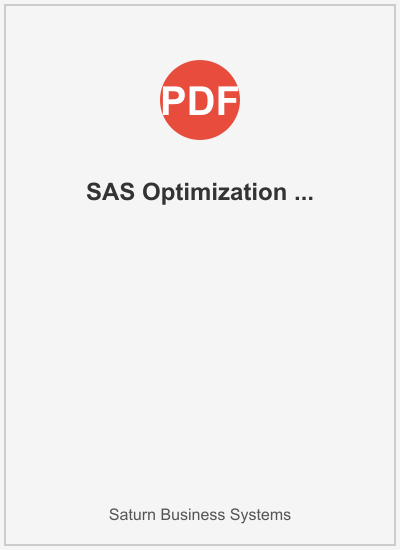
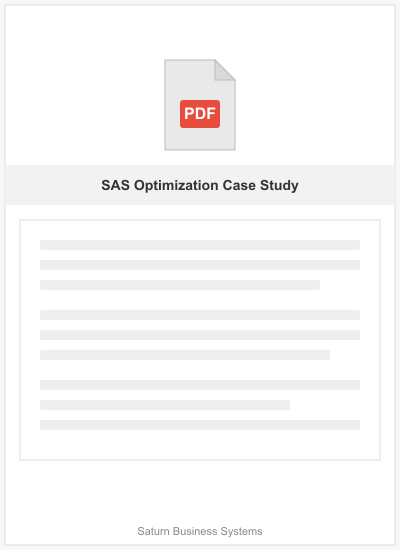
Enhance PDF thumbnails with realistic document preview design

Changed region(s): [[0.0, 0.0, 0.99, 1.0], [0.39, 0.0927, 0.6, 0.2782], [0.21, 0.3091, 0.78, 0.3709]]

diff --git a/scripts/generate-pdf-thumbnails.js b/scripts/generate-pdf-thumbnails.js
@@ -1,8 +1,11 @@
 const fs = require('fs');
 const path = require('path');
 const sharp = require('sharp');
+const { execSync } = require('child_process');
+const { PDFDocument } = require('pdf-lib');
 
 // Configuration
+const PDF_DIR = path.resolve(__dirname, '../public/media/saturn');
 const THUMBNAIL_DIR = path.resolve(__dirname, '../public/media/saturn/thumbnails');
 const PDF_FILES = [
   'sas-optimization-legalresearchfirm-3-12-2015.pdf',
@@ -16,22 +19,53 @@ if (!fs.existsSync(THUMBNAIL_DIR)) {
   console.log(`Created thumbnail directory: ${THUMBNAIL_DIR}`);
 }
 
-// Generate simple colored rectangle thumbnails with text overlay
-async function generateSimpleThumbnail(outputPath, title) {
+// Generate PDF cover thumbnails with document title overlay
+async function generatePdfThumbnail(outputPath, title, pdfTitle) {
   try {
-    // Create a 500x700 rectangle with light color background
+    // Create a 400x550 rectangle with light color background
     const width = 400;
     const height = 550;
     
-    // Create a solid color SVG with text
+    // Create a solid color SVG with text and a realistic PDF icon
     const svgImage = `
       <svg width="${width}" height="${height}" xmlns="http://www.w3.org/2000/svg">
-        <rect width="100%" height="100%" fill="#f5f5f5"/>
-        <rect x="5" y="5" width="${width-10}" height="${height-10}" fill="#f5f5f5" stroke="#cccccc" stroke-width="2"/>
-        <circle cx="${width/2}" cy="100" r="40" fill="#e74c3c"/>
-        <text x="${width/2}" y="115" font-family="Arial" font-size="40" font-weight="bold" text-anchor="middle" fill="white">PDF</text>
-        <text x="${width/2}" y="200" font-family="Arial" font-size="24" font-weight="bold" text-anchor="middle" fill="#333333">${title.length > 20 ? title.substring(0, 17) + '...' : title}</text>
-        <text x="${width/2}" y="${height-30}" font-family="Arial" font-size="16" text-anchor="middle" fill="#555555">Saturn Business Systems</text>
+        <!-- Background -->
+        <rect width="100%" height="100%" fill="#f8f8f8"/>
+        <rect x="5" y="5" width="${width-10}" height="${height-10}" fill="#fff" stroke="#ddd" stroke-width="1"/>
+        
+        <!-- PDF File Icon -->
+        <g transform="translate(${width/2 - 35}, 60)">
+          <!-- Document base -->
+          <path d="M0,0 L50,0 L70,20 L70,90 L0,90 Z" fill="#e9e9e9" stroke="#bbb" stroke-width="1"/>
+          <!-- Folded corner -->
+          <path d="M50,0 L50,20 L70,20 Z" fill="#d9d9d9" stroke="#bbb" stroke-width="1"/>
+          <!-- PDF text -->
+          <rect x="15" y="40" width="40" height="28" rx="3" fill="#e74c3c"/>
+          <text x="35" y="59" font-family="Arial" font-size="16" font-weight="bold" text-anchor="middle" fill="white">PDF</text>
+        </g>
+        
+        <!-- Title Bar -->
+        <rect x="5" y="165" width="${width-10}" height="40" fill="#f2f2f2"/>
+        <text x="${width/2}" y="190" font-family="Arial" font-size="14" font-weight="bold" text-anchor="middle" fill="#333">
+          ${pdfTitle.length > 35 ? pdfTitle.substring(0, 32) + '...' : pdfTitle}
+        </text>
+        
+        <!-- Document Preview Area -->
+        <rect x="20" y="220" width="${width-40}" height="240" fill="#fff" stroke="#ddd"/>
+        
+        <!-- Document Content Lines Simulation -->
+        <rect x="40" y="240" width="${width-80}" height="10" fill="#eee" rx="2"/>
+        <rect x="40" y="260" width="${width-80}" height="10" fill="#eee" rx="2"/>
+        <rect x="40" y="280" width="${width-120}" height="10" fill="#eee" rx="2"/>
+        <rect x="40" y="310" width="${width-80}" height="10" fill="#eee" rx="2"/>
+        <rect x="40" y="330" width="${width-80}" height="10" fill="#eee" rx="2"/>
+        <rect x="40" y="350" width="${width-110}" height="10" fill="#eee" rx="2"/>
+        <rect x="40" y="380" width="${width-80}" height="10" fill="#eee" rx="2"/>
+        <rect x="40" y="400" width="${width-150}" height="10" fill="#eee" rx="2"/>
+        <rect x="40" y="420" width="${width-80}" height="10" fill="#eee" rx="2"/>
+        
+        <!-- Footer -->
+        <text x="${width/2}" y="${height-15}" font-family="Arial" font-size="11" text-anchor="middle" fill="#888">Saturn Business Systems</text>
       </svg>
     `;
 
@@ -39,9 +73,11 @@ async function generateSimpleThumbnail(outputPath, title) {
     await sharp(Buffer.from(svgImage))
       .toFile(outputPath);
       
-    console.log(`Created thumbnail: ${outputPath}`);
+    console.log(`Created enhanced thumbnail for ${title}: ${outputPath}`);
+    return true;
   } catch (err) {
     console.error(`Error generating thumbnail for ${title}:`, err);
+    return false;
   }
 }
 
@@ -55,11 +91,34 @@ async function processPDFs() {
     };
     
     for (const pdfFile of PDF_FILES) {
+      // Set up paths
+      const pdfPath = path.join(PDF_DIR, pdfFile);
       const baseName = path.basename(pdfFile, '.pdf');
       const thumbnailPath = path.join(THUMBNAIL_DIR, `${baseName}-thumbnail.png`);
       const title = titles[baseName] || baseName.replace(/-/g, ' ');
       
-      await generateSimpleThumbnail(thumbnailPath, title);
+      if (fs.existsSync(pdfPath)) {
+        console.log(`Processing PDF: ${pdfFile}`);
+        
+        // Try to extract PDF metadata
+        let pdfTitle = title;
+        try {
+          const pdfBytes = fs.readFileSync(pdfPath);
+          const pdfDoc = await PDFDocument.load(pdfBytes);
+          const { Title } = pdfDoc.getTitle() ? { Title: pdfDoc.getTitle() } : { Title: title };
+          if (Title && Title.trim() !== '') {
+            pdfTitle = Title;
+          }
+        } catch (err) {
+          console.error(`Error extracting PDF metadata: ${err.message}`);
+        }
+        
+        // Generate an enhanced thumbnail with more realistic PDF appearance
+        await generatePdfThumbnail(thumbnailPath, title, pdfTitle);
+      } else {
+        console.log(`PDF file not found: ${pdfPath}`);
+        await generatePdfThumbnail(thumbnailPath, title, title);
+      }
     }
     
     console.log('All thumbnails generated successfully');
